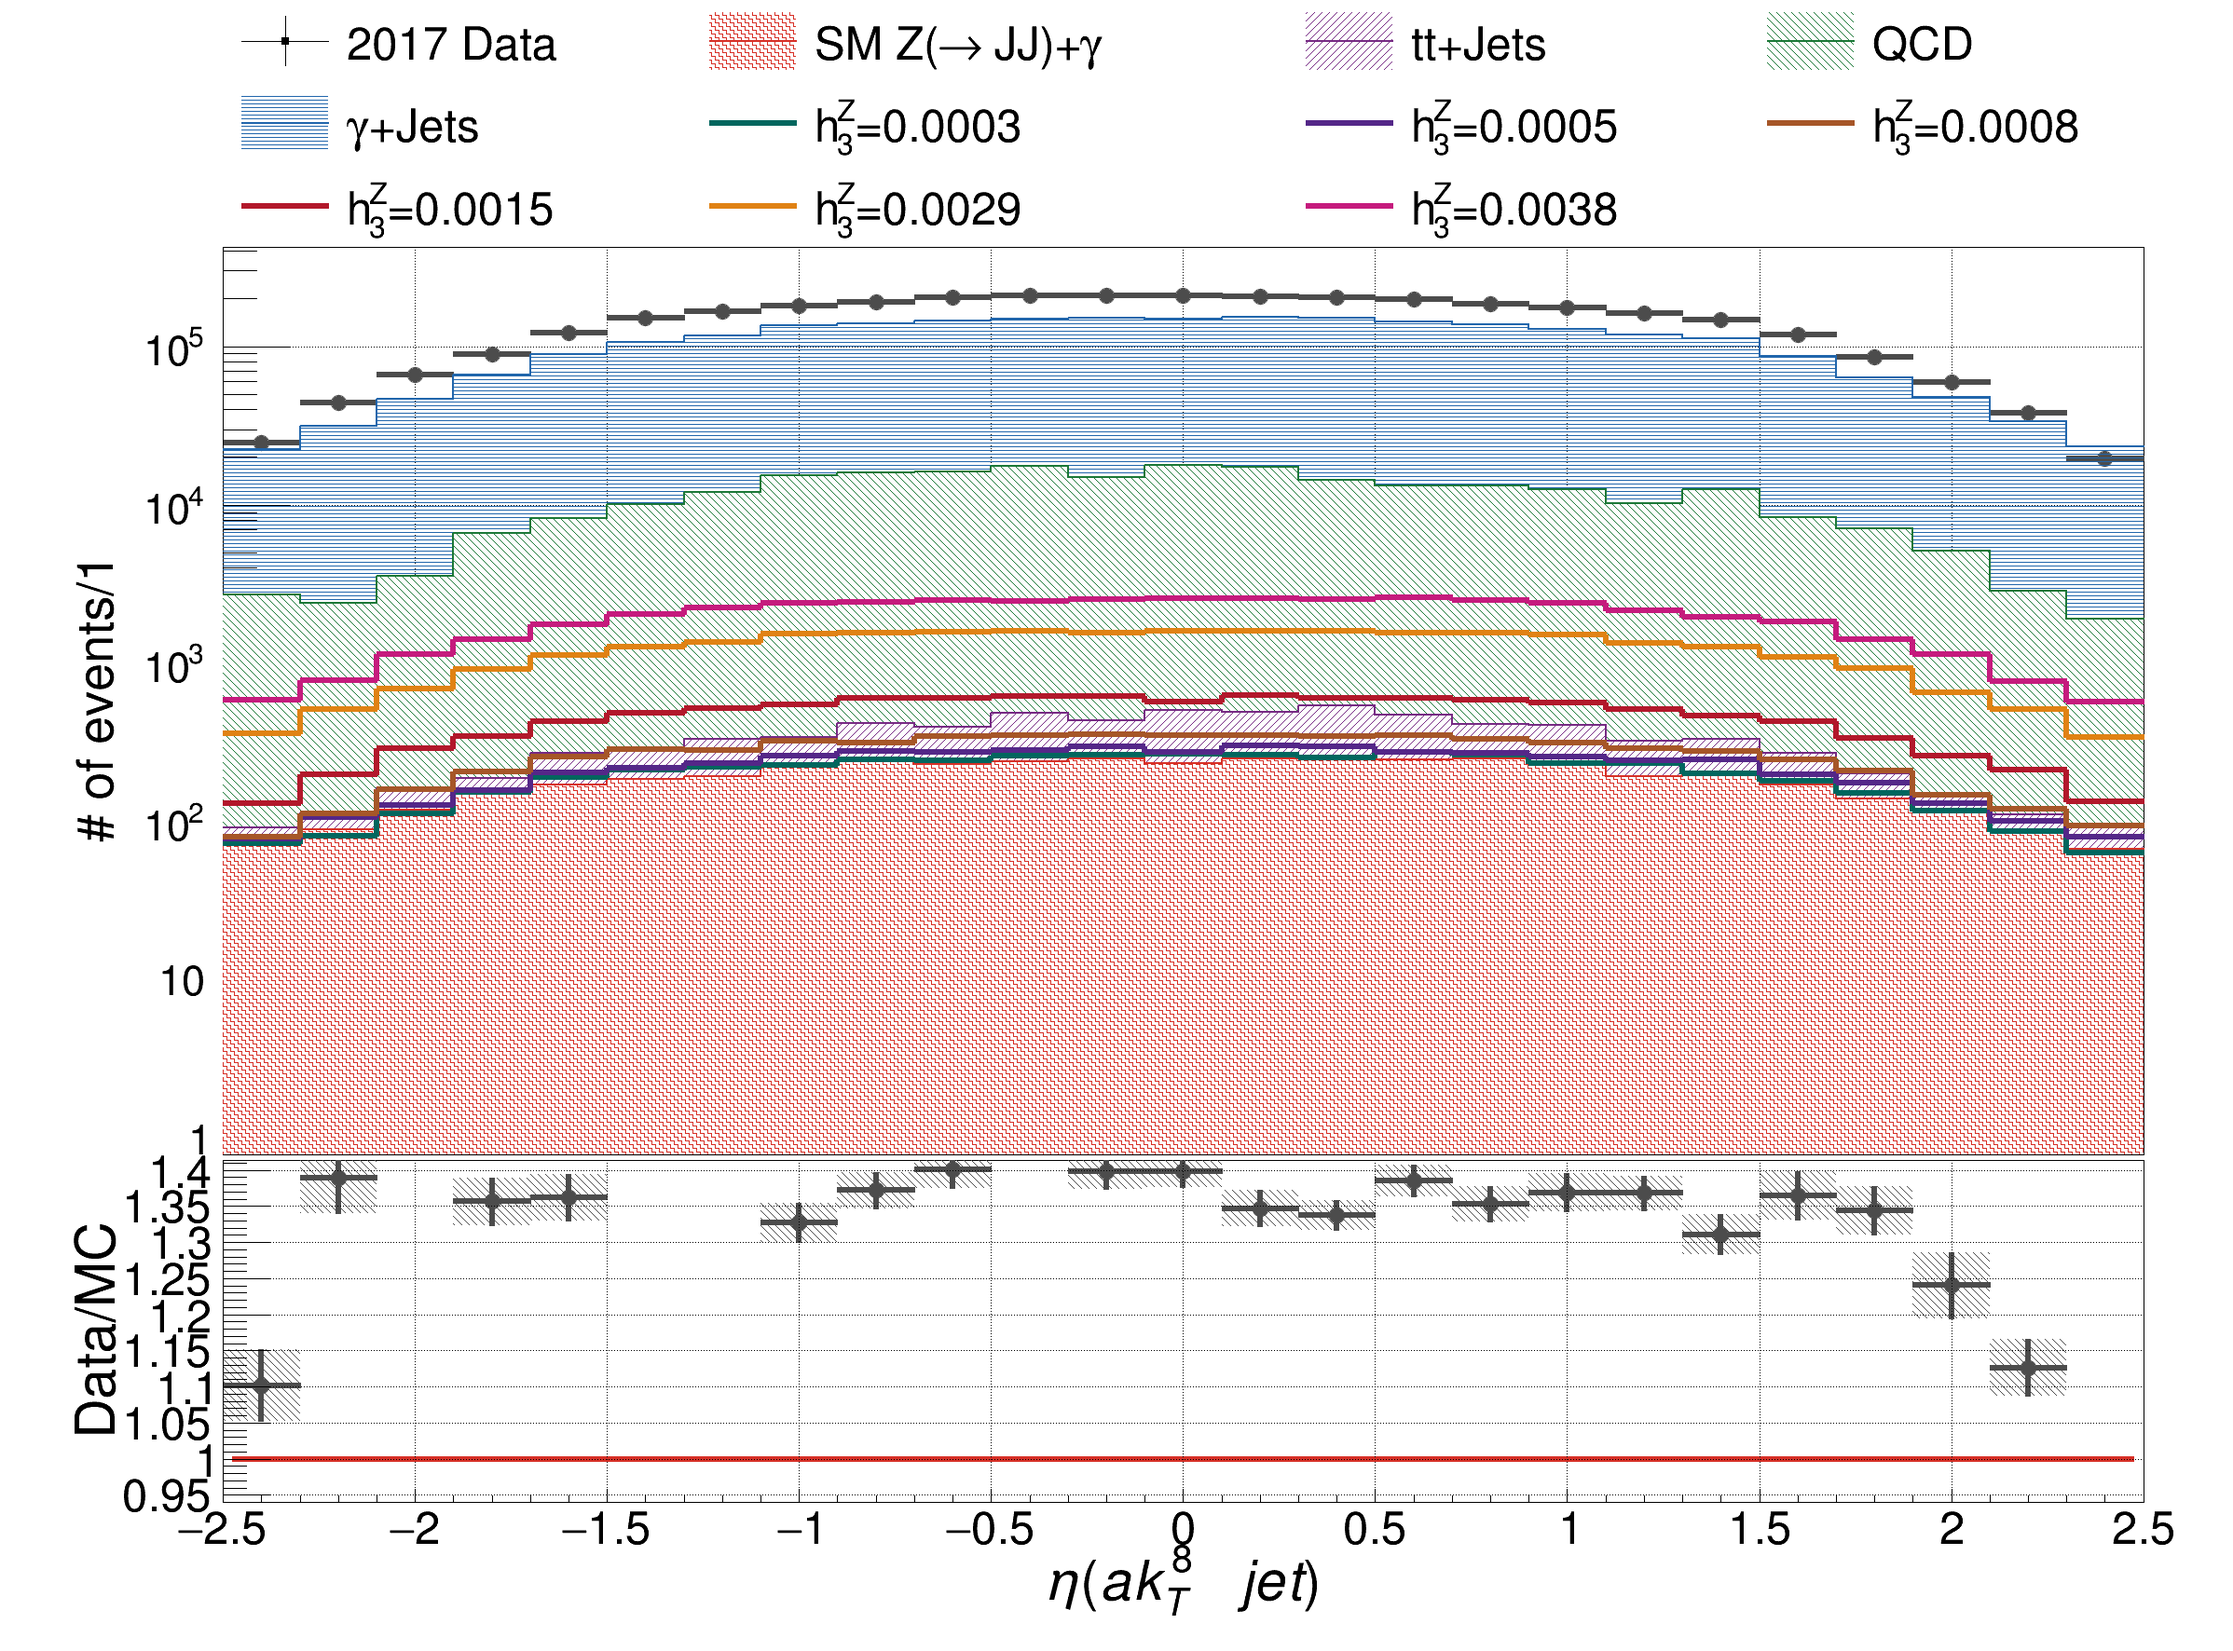
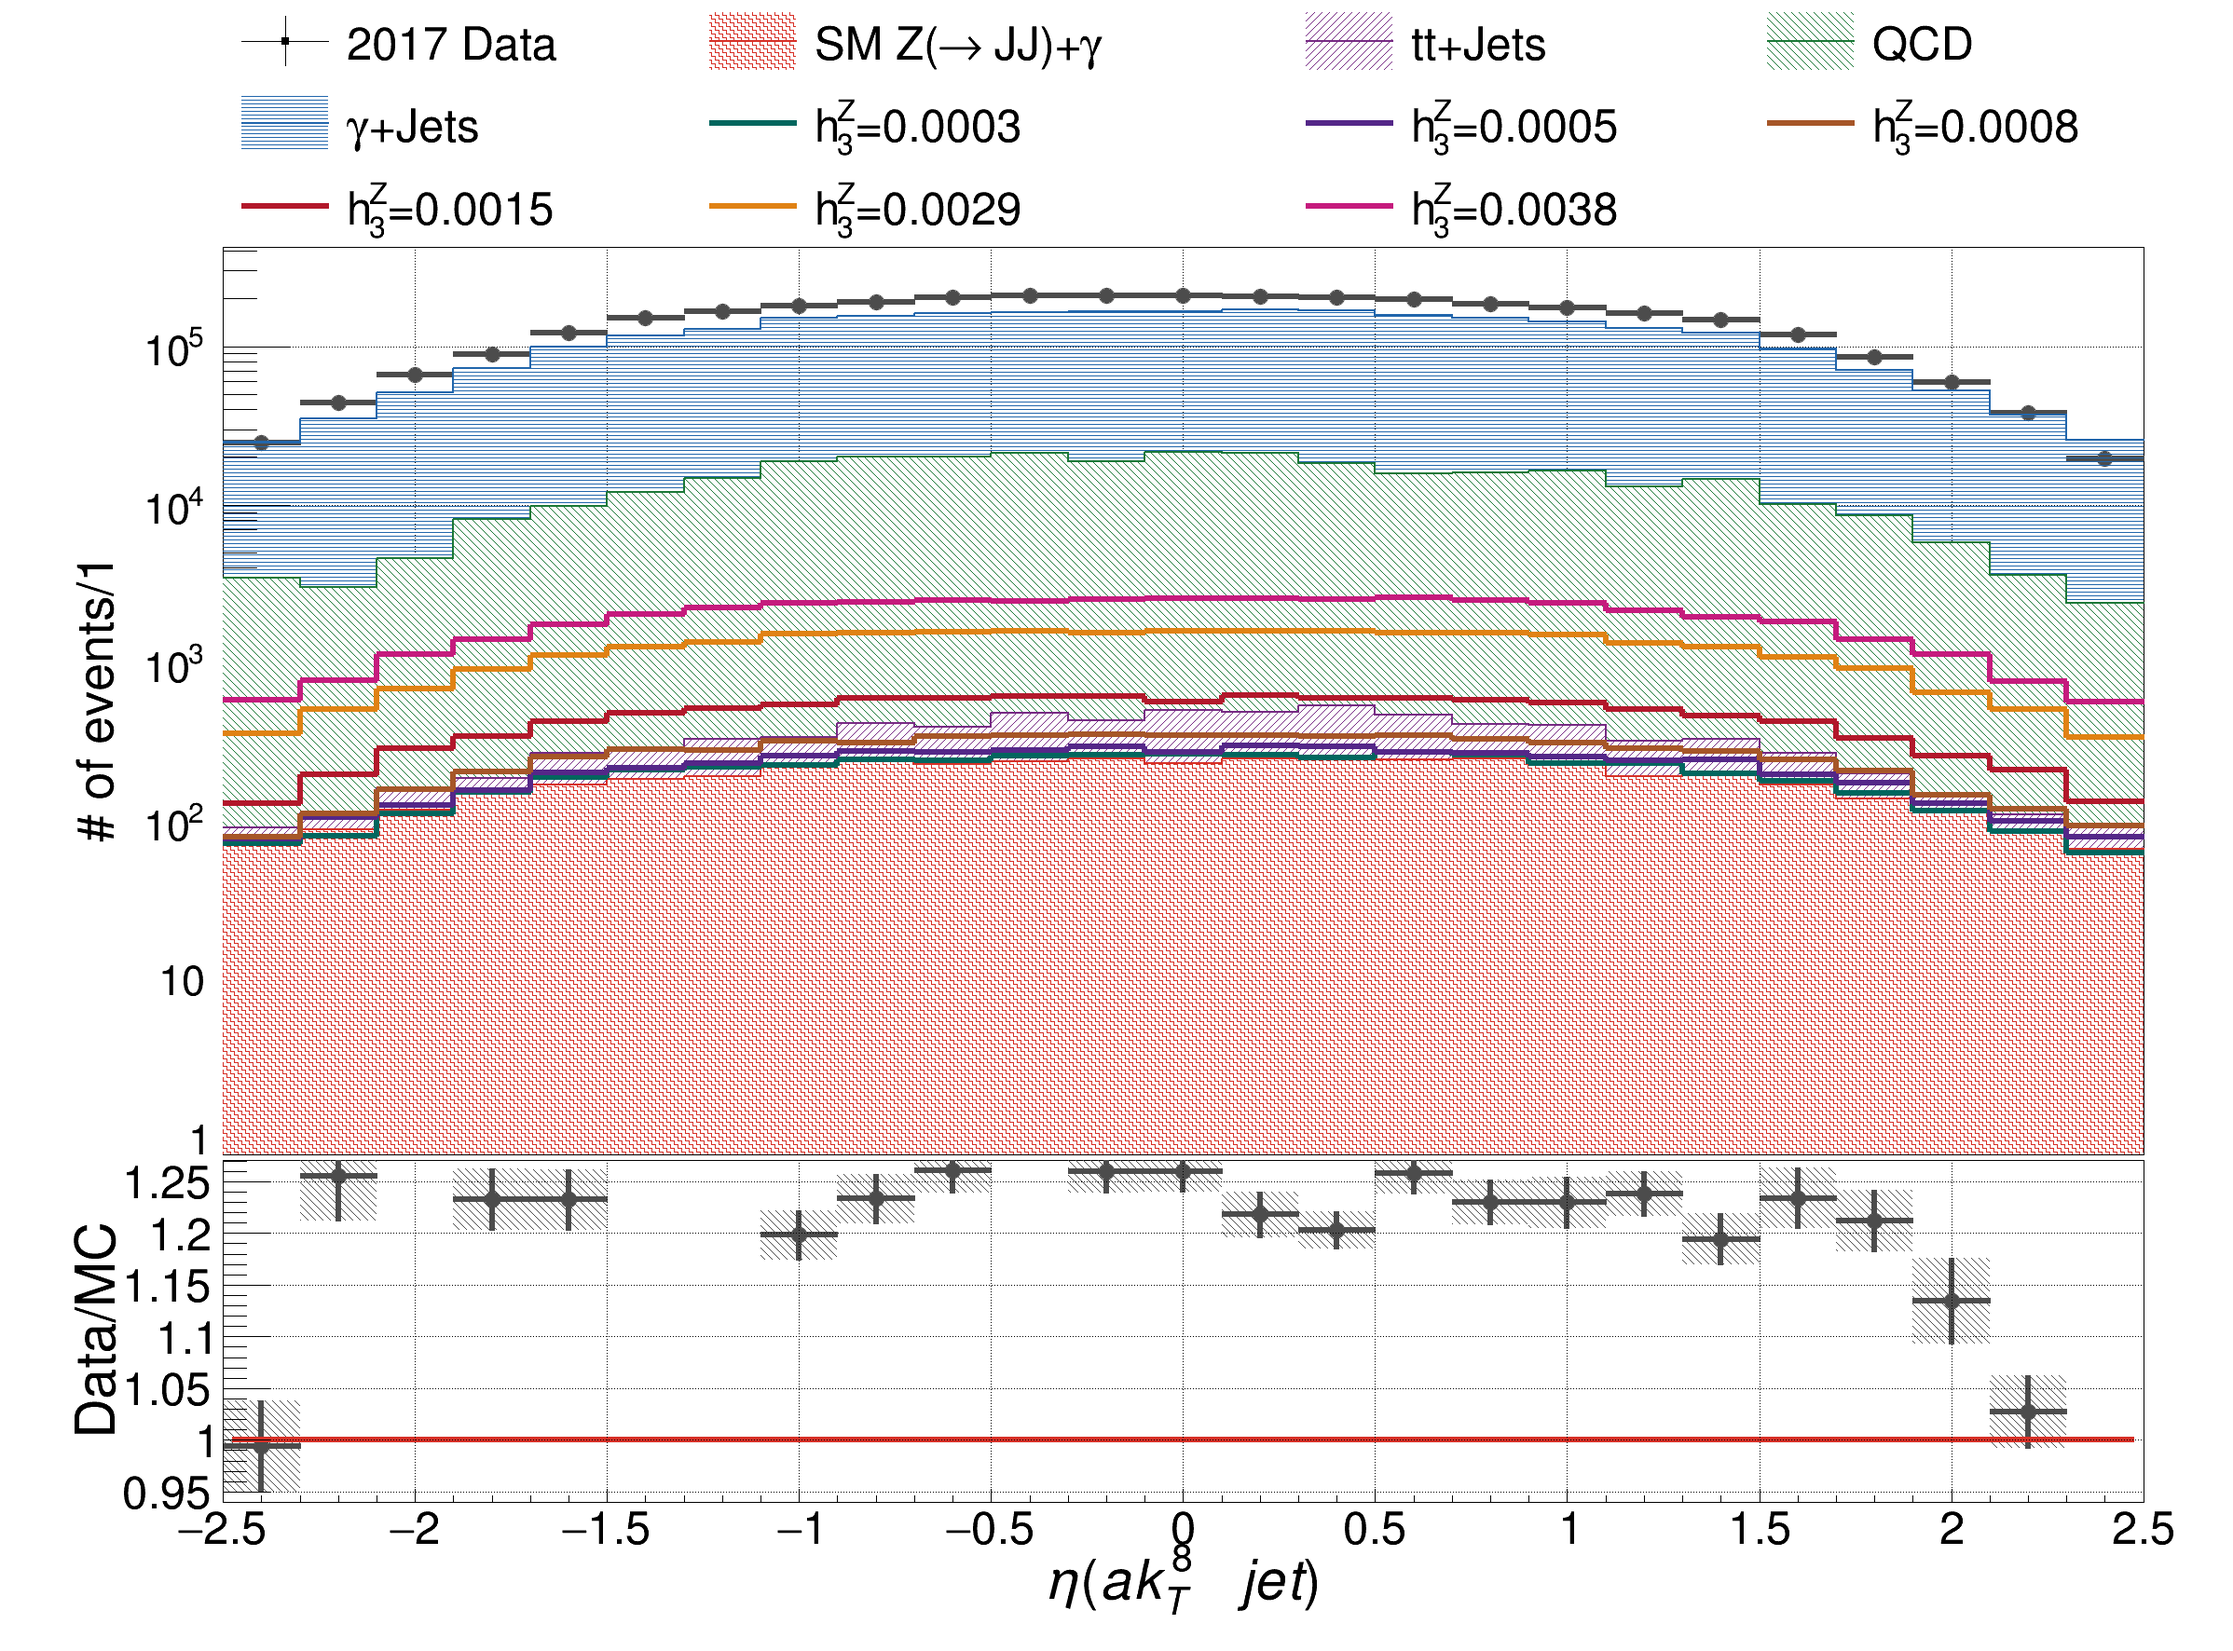
trying to fix data/mc mismatch

diff --git a/macros/eventPreselector.cc b/macros/eventPreselector.cc
@@ -5,6 +5,35 @@
 #include "TSystem.h"
 
 
+Bool_t aNTGCpreselector::phoIsDirectPromptDeltaR0p05(){
+	Int_t _nMC = _mcStatus.size();
+	for(Int_t i= 0; i < _nMC; i++){
+		if(((_mcPID[i]) == 22) && ((_mcStatus[i]) == 1) && ((std::abs((_mcMomPID[i])) <= 22) || (std::abs((_mcMomPID[i])) == 2212))){
+			for(Int_t j =0; j < _nMC; j++){
+				if((_mcPID[j]) == 21 || std::abs((_mcPID[j])) < 7){
+					Float_t _deltaR = deltaR(_mcEta[i], _mcPhi[i], _mcEta[j], _mcPhi[j]);
+					if(_deltaR > 0.05) return 1;
+				}
+			}
+		}
+	}
+	return 0;
+};
+
+Bool_t aNTGCpreselector::phoIsDirectPromptDeltaR0p4(){
+	Int_t _nMC = _mcStatus.size();
+	for(Int_t i= 0; i < _nMC; i++){
+		if(((_mcPID[i]) == 22) && ((_mcStatus[i]) == 1) && ((std::abs((_mcMomPID[i])) <= 22) || (std::abs((_mcMomPID[i])) == 2212))){
+			for(Int_t j =0; j < _nMC; j++){
+				if((_mcPID[j]) == 21 || std::abs((_mcPID[j])) < 7){
+					Float_t _deltaR = deltaR(_mcEta[i], _mcPhi[i], _mcEta[j], _mcPhi[j]);
+					if(_deltaR > 0.4) return 1;
+				}
+			}
+		}
+	}
+	return 0;
+};
 
 aNTGCpreselector::aNTGCpreselector(std::string _file_list, std::string _output_file){
 	Char_t _isData =isData(_file_list);
@@ -23,7 +52,7 @@ aNTGCpreselector::aNTGCpreselector(std::string _file_list, std::string _output_f
 	}
 
 	isQCD = matchRegex(_file_list, ".*QCD.*");
-	isGJets = matchRegex(_file_list, ".*GJets.*");
+	isGJets = (matchRegex(_file_list, ".*GJets.*") && !matchRegex(_file_list, ".*TGJets.*"));
 
 	if(!inputTree){
 		std::cout<<"Error! Could not create input TChain."<<std::endl;
@@ -83,6 +112,11 @@ Char_t aNTGCpreselector::initIntputNtuples(){
 	if(isMC){
 		_genWeight.set(inputTTreeReader, "genWeight");
 		_mcHasDirectPromptPho.set(inputTTreeReader, "mcHasDirectPromptPho");
+		_mcStatus.set(inputTTreeReader, "mcStatus");
+		_mcPID.set(inputTTreeReader, "mcPID");
+		_mcMomPID.set(inputTTreeReader, "mcMomPID");
+		_mcEta.set(inputTTreeReader, "mcEta");
+		_mcPhi.set(inputTTreeReader, "mcPhi");
 	}
 
 	_pfMET.set(inputTTreeReader, "pfMET");
@@ -524,13 +558,13 @@ Bool_t aNTGCpreselector::selectBoostedJetGevent(){
 	lastCutStep = 0.5;
 	registerCutFlow();
 
-	// Double counting removal for QCD & GJets
-	if(isGJets || isQCD){
-		Char_t eventHasDirectPromptPho_ = isMC ? (_mcHasDirectPromptPho) : 0;
-		Bool_t hasDirectPomptPhoBit = getBit((eventHasDirectPromptPho_), 0);
-		if(isGJets && !hasDirectPomptPhoBit) return 0;
-		if(isQCD && hasDirectPomptPhoBit) return 0;
-	}
+	//Double counting removal for QCD & GJets
+	//if(isGJets || isQCD){
+		// Char_t eventHasDirectPromptPho_ = isMC ? (_mcHasDirectPromptPho) : 0;
+		// Bool_t hasDirectPomptPhoBit = getBit((eventHasDirectPromptPho_), 0);
+	//	if(isGJets && !phoIsDirectPromptDeltaR0p05()) return 0;
+	//	if(isQCD && phoIsDirectPromptDeltaR0p4() ) return 0;
+	//	}
 	registerCutFlow();
 
 	// 200GeV photon trigger

diff --git a/macros/extra_tools.cc b/macros/extra_tools.cc
@@ -71,7 +71,7 @@ std::string getFileName(std::string _filepath);
 std::vector<std::string> getNonemptyLines(std::string filepath);
 std::vector<std::string> getNonemptyLinesWithFilenameKeyword(std::string filepath, std::string keyword, std::string exclude="");
 std::vector<std::string> getLinesRegex(std::string _filepath, std::string _regexStr);
-TH1* getHistFromFile(std::string _histName, std::string _filename);
+TH1* getHistFromFile(std::string _histName, std::string _filename, Bool_t _verbose=0);
 TObject *getObjectFromFile(std::string _objectName, std::string _filename);
 TH1* rebinHist(TH1* _hist, Double_t _statUnc);
 TH1* rebinHist(TH1* _hist, std::vector<Double_t> _newBins);
@@ -852,12 +852,12 @@ std::vector<std::string> getLinesRegex(std::string _filepath, std::string _regex
 };
 
 
-TH1* getHistFromFile(std::string _histName, std::string _filename){
+TH1* getHistFromFile(std::string _histName, std::string _filename, Bool_t _verbose){
 	TFile _file(_filename.c_str(), "READ");
 	TH1* _hist = (TH1*) _file.Get(_histName.c_str());
 	_hist->SetDirectory(0);
 	_file.Close();
-	std::cout<<"\t\tLoaded histogram "<<_histName<<" from file "<<_filename<<std::endl;
+	if(_verbose)std::cout<<"\t\tLoaded histogram "<<_histName<<" from file "<<_filename<<std::endl;
 	return _hist;
 };
 
@@ -1443,7 +1443,7 @@ TH1F *mergeBins(std::string _fileList, std::string _histName, std::string _sumWe
 	TH1F *_mergedHist = (TH1F*) getHistFromFile(_histName, _inFiles[0]);
 	_mergedHist->Reset("ICESM");
 	_mergedHist->SetDirectory(0);
-	_mergedHist->Sumw2();
+	// _mergedHist->Sumw2();
 	std::string _newName = _mergedHist->GetName();
 	_newName += _suffix;
 	_mergedHist->SetName(_newName.c_str());
@@ -1466,7 +1466,7 @@ TH1F *mergeBins(std::string _fileList, std::string _histName, std::string _sumWe
 
 		_binHist->Delete();
 
-		std::cout<<"\t\tAdding "<<_file<<":" << std::endl<<"\t\t\txSection = "<<_xSection<<std::endl<<"\t\t\tSumW = "<<_sumW<<std::endl;
+		std::cout<<"\t\t"<<_file<<":\t xSection = "<<_xSection<<"\t\tSumW = "<<_sumW<<std::endl;
 	}
 	std::cout<<"\t\tMerged all bins! Integral = "<<_mergedHist->Integral()<<std::endl;
 
@@ -1488,7 +1488,7 @@ std::string vLookup(std::string _lookupKey, std::string _inFile, Int_t _lookupCo
 				break;
 			}
 		} else{
-			if(_searchCell.find(_lookupKey) != std::string::npos) {
+			if(_searchCell == _lookupKey) {
 				_matchedRow = i;
 				break;
 			}

diff --git a/macros/eventPreselector.h b/macros/eventPreselector.h
@@ -34,6 +34,8 @@ private:
 	Bool_t selectBoostedJetGevent();
 	void analyze();
 	void registerCutFlow();
+	Bool_t phoIsDirectPromptDeltaR0p05();
+	Bool_t phoIsDirectPromptDeltaR0p4();
 	Float_t lastCutStep = 0.5;
 	TH1F h_cutFlowEvts{"cutFlowEvts", "Cut Flow (# of events)", 20, 0., 20.};
 	TH1F h_cutFlowWeighted{"cutFlow", "Cut Flow", 20, 0., 20.};
@@ -61,6 +63,12 @@ private:
 
 	TTreeReaderAnyValue<Float_t> _genWeight;
 	TTreeReaderAnyValue<Char_t> _mcHasDirectPromptPho;
+
+	TTreeReaderVectorValue<Int_t> _mcStatus;
+	TTreeReaderVectorValue<Int_t> _mcPID;
+	TTreeReaderVectorValue<Int_t> _mcMomPID;
+	TTreeReaderVectorValue<Float_t> _mcEta;
+	TTreeReaderVectorValue<Float_t> _mcPhi;
 
 
 	TTreeReaderAnyValue<Float_t> _pfMET;
